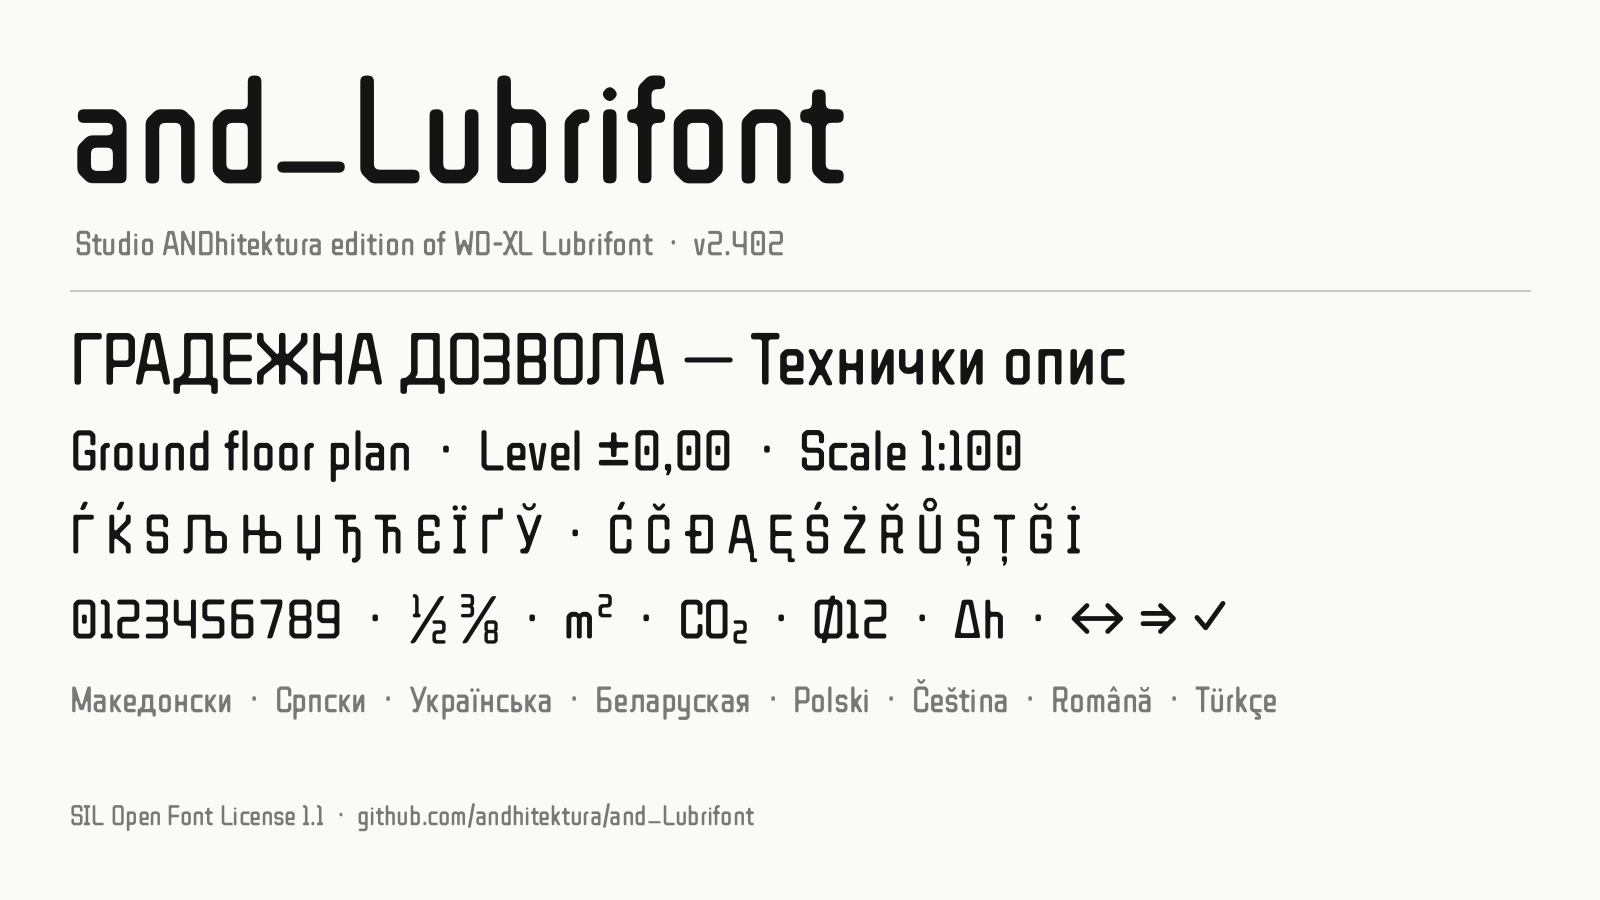
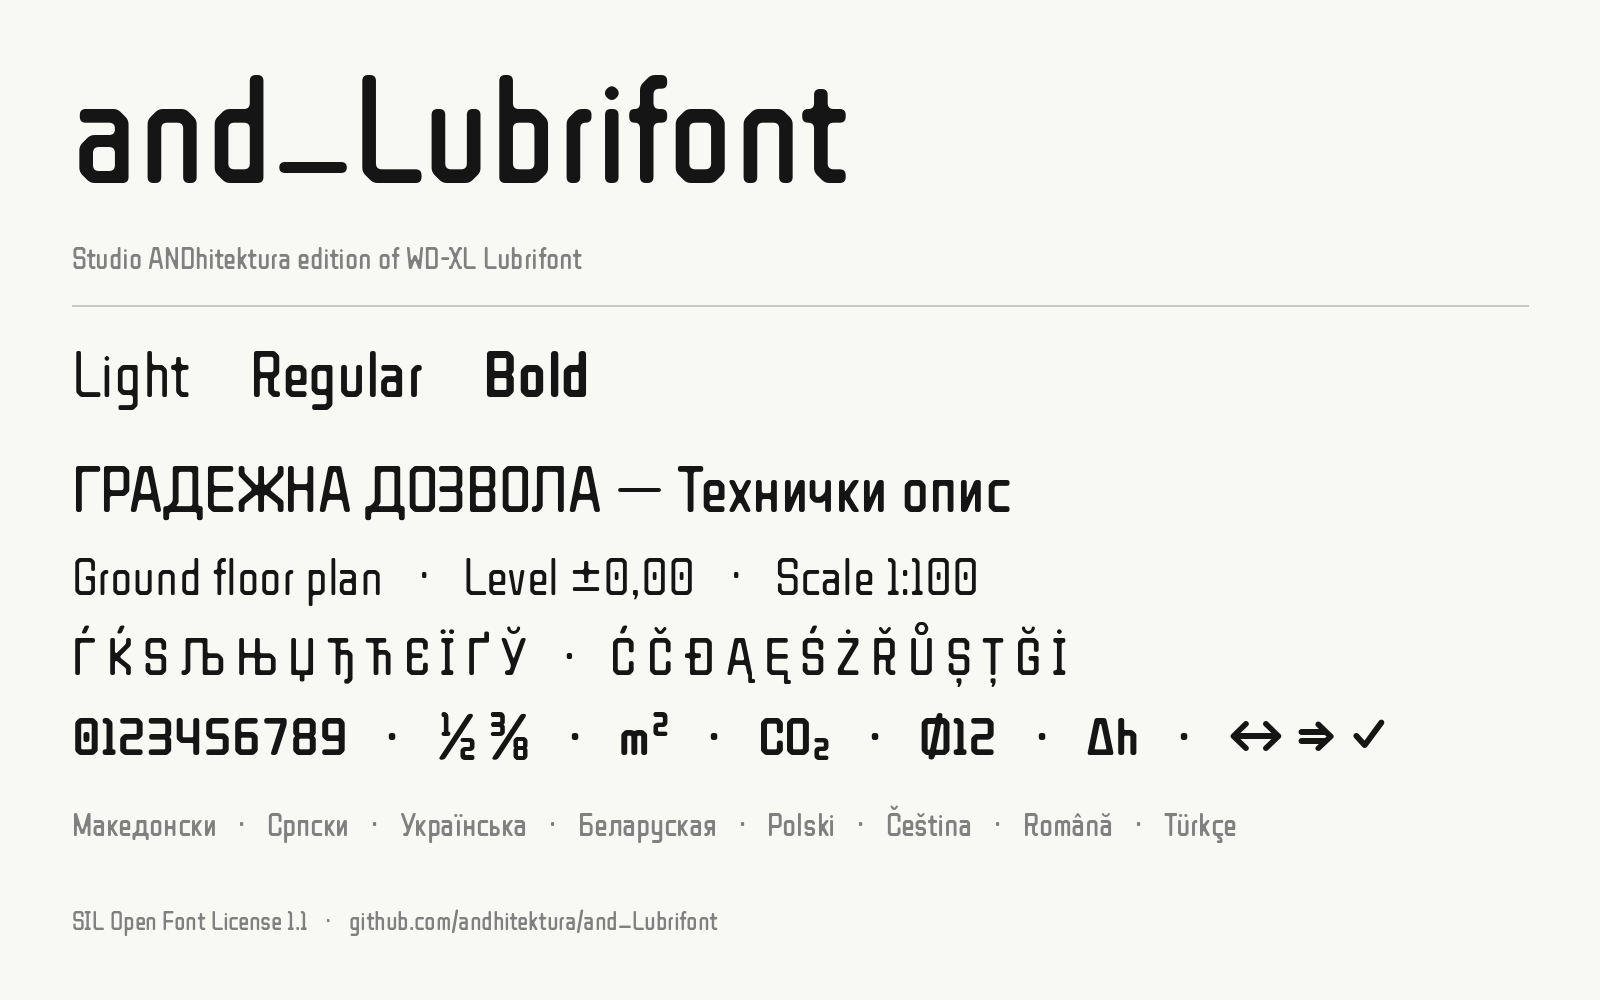
App-neutral documentation, new specimen, updated references
- README, FEATURES, UPDATES, TECHNICAL and script comments describe
  application support in general terms instead of naming applications.
- New README specimen (sources/scripts/make_specimen.py): shows the
  Light/Regular/Bold weights and no version number, so it no longer
  goes out of date (the old one said v2.402).
- README lists hinting, web fonts and the fontbakery check; FEATURES
  refers to v2.501; TO_DO.md gains the done and remaining roadmap
  items; DESCRIPTION.en_us.html describes this edition.

Claude-Session: https://claude.ai/code/session_018pCtkYHVwsveDFWZrVX9eK

diff --git a/documentation/DESCRIPTION.en_us.html b/documentation/DESCRIPTION.en_us.html
@@ -1,3 +1,3 @@
-<p>WD-XL Lubrifont is a Chinese display font that emphasize on a compat yet welcoming experience, expanded for daily Chinese typography with professional typesetting in mind.</p>
+<p>and_Lubrifont is Studio ANDhitektura's edition of WD-XL Lubrifont, a geometric display font with rounded-square forms and a full Chinese and Japanese character set. This edition extends it for technical and architectural documents in Macedonian and other European languages: Cyrillic and Central European letters, a dotted zero and diagonal seven for legibility, tabular figures, fractions, super- and subscripts, technical symbols, kerning, and a Latin / Cyrillic / Greek family in Light, Regular and Bold.</p>
 
-<p>To contribute to the project or raise an issue, please visit <a href="https://github.com/NightFurySL2001/WD-XL-font">the GitHub repository</a> or contact <a href="mailto:nfsl-fonts@outlook.my">NFSL2001</a>.</p>
+<p>Based on WD-XL Lubrifont by NightFurySL2001 and ZCOOL QingKe HuangYou. To contribute or raise an issue, please visit <a href="https://github.com/andhitektura/and_Lubrifont">the GitHub repository</a>.</p>

diff --git a/sources/scripts/make_specimen.py b/sources/scripts/make_specimen.py
@@ -1,0 +1,54 @@
+# Specimen image for the README: documentation/specimen.png (1600 x 1000),
+# set in the and_Lubrifont .ttf fonts with kerning (Pillow with libraqm).
+# It names no version number, so it does not go out of date with a release.
+#
+# usage: py make_specimen.py
+#
+# Requires: Pillow (with libraqm)
+
+import os
+from PIL import Image, ImageDraw, ImageFont
+
+HERE = os.path.dirname(os.path.abspath(__file__))
+FONTS = os.path.join(HERE, "..", "..", "fonts", "and_Lubrifont")
+OUT = os.path.join(HERE, "..", "..", "documentation", "specimen.png")
+
+BG, INK, GREY, RULE = "#f8f8f5", "#151515", "#808080", "#c8c8c4"
+X = 72
+
+
+def font(style, size):
+    return ImageFont.truetype(os.path.join(FONTS, f"andLubrifont-{style}.ttf"), size,
+                              layout_engine=ImageFont.Layout.RAQM)
+
+
+def main():
+    img = Image.new("RGB", (1600, 1000), BG)
+    d = ImageDraw.Draw(img)
+    d.text((X, 40), "and_Lubrifont", font=font("Regular", 150), fill=INK)
+    d.text((X, 240), "Studio ANDhitektura edition of WD-XL Lubrifont", font=font("Regular", 30), fill=GREY)
+    d.line((X, 305, 1528, 305), fill=RULE, width=2)
+    y = 335
+    x = X
+    for style in ("Light", "Regular", "Bold"):
+        f = font(style, 64)
+        d.text((x, y), style, font=f, fill=INK)
+        x += d.textlength(style, font=f) + 60
+    lines = [
+        ("Regular", 64, "ГРАДЕЖНА ДОЗВОЛА — Технички опис", 450),
+        ("Light", 52, "Ground floor plan  ·  Level ±0,00  ·  Scale 1:100", 545),
+        ("Regular", 52, "Ѓ Ќ Ѕ Љ Њ Џ Ђ Ћ Є Ї Ґ Ў  ·  Ć Č Đ Ą Ę Ś Ż Ř Ů Ș Ț Ğ İ", 625),
+        ("Bold", 52, "0123456789  ·  ½ ⅜  ·  m²  ·  CO₂  ·  ⌀12  ·  ∆h  ·  ↔ ⇒ ✓", 705),
+    ]
+    for style, size, text, ly in lines:
+        d.text((X, ly), text, font=font(style, size), fill=INK)
+    d.text((X, 805), "Македонски  ·  Српски  ·  Українська  ·  Беларуская  ·  Polski  ·  Čeština  ·  Română  ·  Türkçe",
+           font=font("Regular", 32), fill=GREY)
+    d.text((X, 905), "SIL Open Font License 1.1  ·  github.com/andhitektura/and_Lubrifont",
+           font=font("Regular", 26), fill=GREY)
+    img.save(OUT, optimize=True)
+    print(OUT)
+
+
+if __name__ == "__main__":
+    main()

diff --git a/sources/scripts/release_fixes.py b/sources/scripts/release_fixes.py
@@ -3,8 +3,7 @@
 #
 # - Line metrics: typo and hhea ascender/descender 945/-235, line gap 0, in
 #   every font, so the .otf and .ttf of a font set text with the same line
-#   spacing (1180 units, as the .ttf always had) on Windows, macOS and in
-#   Adobe applications; USE_TYPO_METRICS set so applications that honour it
+#   spacing (1180 units, as the .ttf always had) in every application; USE_TYPO_METRICS set so applications that honour it
 #   use these values.
 # - Windows clipping box: usWinAscent/usWinDescent at least the font's
 #   highest and lowest point (accented capitals Ѓ Ќ Ѐ Ѝ Ў Č Ř Š ... reach

diff --git a/sources/scripts/autohint.py b/sources/scripts/autohint.py
@@ -1,8 +1,7 @@
 # TrueType hinting for the and_Lubrifont .ttf fonts, with ttfautohint.
 #
 # Hinting snaps stems, x-height, cap height and baseline to whole pixels at
-# small sizes, so text stays sharp and even on screen: AutoCAD, Windows
-# applications and plan sheets viewed below about 20 px. Latin, Cyrillic and
+# small sizes, so text stays sharp and even on screen below about 20 px. Latin, Cyrillic and
 # Greek are hinted; CJK glyphs are left unhinted (ttfautohint has no CJK
 # support). -W (Windows compatibility) keeps glyphs inside usWinAscent and
 # usWinDescent, so GDI clips nothing.

diff --git a/sources/scripts/number_features.py b/sources/scripts/number_features.py
@@ -9,7 +9,7 @@
 #
 # and gives the math signs + − = < > ± × ÷ ¬ one common width, so they align in
 # tables. Proportional figures stay the default; the features are switched on
-# in the application (Rhino, Affinity, Adobe, Word, CSS font-feature-settings).
+# in the application (OpenType / typography settings, CSS font-feature-settings).
 #
 # The features are compiled with feaLib into a scratch copy of the font and
 # merged into the existing GSUB (existing lookups and features are untouched).

diff --git a/README.md b/README.md
@@ -13,9 +13,11 @@ Compared with the original WD-XL Lubrifont (v2.100):
 - **Languages:** Macedonian, Serbian, Croatian, Bosnian, Slovenian, Ukrainian, Belarusian, Polish, Czech, Slovak, Romanian and Turkish
 - **Legibility:** a zero with a centre dot (`0` vs `O`), and a 7 with a diagonal stem
 - **Spacing:** corrected and evened-out letter spacing, slightly more open overall, and kerning for Latin, Cyrillic and punctuation
-- **Accents:** combining stress accents (`е́ о́ и́`) sit correctly on Cyrillic letters, and accented capitals are no longer clipped in Windows applications
+- **Accents:** combining stress accents (`е́ о́ и́`) sit correctly on Cyrillic letters, and accented capitals are no longer clipped at the top
 - **Numbers and symbols:** tabular figures, fractions, superscripts and subscripts, `⌀ ∅ ∆` and arrows, with all math signs at one width
 - **A light Latin / Cyrillic / Greek edition:** about 200 KB instead of 6–12 MB, in three weights: **Light**, Regular and **Bold**
+- **Screen and web:** hinted `.ttf` for sharp text at small sizes, and WOFF2 web fonts
+- **Quality:** every change is checked automatically with [fontbakery](https://github.com/fonttools/fontbakery)
 
 See [Updates](./UPDATES.md) for the full list.
 
@@ -31,9 +33,9 @@ Download the latest version from the **[Releases page](https://github.com/andhit
 | `andLubrifont-Bold.ttf` | and_Lubrifont, style Bold (the **B** button) |
 | `andLubrifont-Light.ttf` | **and_Lubrifont Light** |
 
-Install all three. The **Bold** is linked to the Regular: when you press **B** in Word, Rhino or Affinity, the application uses the real Bold instead of thickening the letters itself, which crowds them together. The **Light** appears as its own entry, because Windows menus only group Regular, Bold and their italics under one name.
+Install all three. The **Bold** is linked to the Regular: when you switch text to bold, the application uses the real Bold instead of thickening the letters itself, which crowds them together. The **Light** appears as its own entry, because Windows menus only group Regular, Bold and their italics under one name.
 
-The `otf` subfolder has the same three fonts in OpenType-CFF format, for Adobe and Affinity users who prefer it. They look identical; install either the `.ttf` or the `.otf` files, not both. AutoCAD needs the `.ttf`. The `woff2` folder is for websites (see [Web fonts](#web-fonts)), not for installing.
+The `otf` subfolder has the same three fonts in OpenType-CFF format. They look identical; install either the `.ttf` or the `.otf` files, not both. The `.ttf` is the safe choice: it works everywhere, including technical applications that accept only TrueType fonts, and it is hinted for sharp text on screen. The `woff2` folder is for websites (see [Web fonts](#web-fonts)), not for installing.
 
 **`and_Lubrifont-CJK`: only if you also write Chinese or Japanese.** The same Latin, Cyrillic and Greek letters, plus about 18,000 Chinese and Japanese characters (6–12 MB per file, Regular weight only). Install the one version that matches your text:
 
@@ -41,15 +43,15 @@ The `otf` subfolder has the same three fonts in OpenType-CFF format, for Adobe a
 | --- | --- | --- |
 | `andLubrifontSC-Regular.ttf` | and_Lubrifont SC | Simplified Chinese (mainland China) |
 | `andLubrifontTC-Regular.ttf` | and_Lubrifont TC | Traditional Chinese (Taiwan, Hong Kong) |
-| `andLubrifontJPS-Regular.ttf` | and_Lubrifont JP S | Japanese, JIS90 forms (like Adobe Std) |
-| `andLubrifontJPN-Regular.ttf` | and_Lubrifont JP N | Japanese, JIS2004 forms (like Adobe StdN) |
+| `andLubrifontJPS-Regular.ttf` | and_Lubrifont JP S | Japanese, JIS90 character forms |
+| `andLubrifontJPN-Regular.ttf` | and_Lubrifont JP N | Japanese, JIS2004 character forms |
 | `andLubrifont.ttc` | all four of the above | all four in one smaller file |
 
-The `otf` subfolder of the download has the same four fonts in OpenType-CFF format (also in [`fonts/and_Lubrifont-CJK/otf`](./fonts/and_Lubrifont-CJK/otf)); the `.ttc` contains those four in one file and installs directly on Windows, macOS and in Adobe applications. Install only one of the `.ttf`, `.otf` or `.ttc` versions.
+The `otf` subfolder of the download has the same four fonts in OpenType-CFF format (also in [`fonts/and_Lubrifont-CJK/otf`](./fonts/and_Lubrifont-CJK/otf)); the `.ttc` contains those four in one file and installs directly on Windows and macOS. Install only one of the `.ttf`, `.otf` or `.ttc` versions.
 
 The regional codes (SC, TC, JP) exist because Chinese and Japanese draw some of the same characters differently.
 
-**Versions.** The version number (e.g. 2.500) only tells you which release you have; there is always just one current version. Install the newest one and uninstall the older one first.
+**Versions.** The version number (e.g. 2.501) only tells you which release you have; there is always just one current version. Install the newest one and uninstall the older one first.
 
 ### Installing on Windows
 
@@ -57,15 +59,13 @@ The regional codes (SC, TC, JP) exist because Chinese and Japanese draw some of 
 2. Right-click the font file and choose **Install for all users**.
 3. Restart the application.
 
-Drawings that used "WD-XL Lubrifont SC" need the font reassigned to "and_Lubrifont" (or "and_Lubrifont SC").
+Documents that used "WD-XL Lubrifont SC" need the font reassigned to "and_Lubrifont" (or "and_Lubrifont SC").
 
 ## Using the font in your software
 
-| Feature | Rhino, Affinity, Adobe, browsers | Microsoft Word | AutoCAD |
-| --- | --- | --- | --- |
-| Letter spacing, accents | ✓ | ✓ | ✓ |
-| Kerning | automatic | turn on: Font → Advanced → *Kerning for fonts* | not supported |
-| Tabular figures, fractions, super/subscripts | OpenType / Typography panel | Font → Advanced | use `½ ⅜ ² ₂` directly |
+The letters, spacing and accents work in every application. **Kerning** (the adjusted spacing of pairs such as `AV`, `Ту`) is applied automatically by most applications and browsers; a few word processors apply it only after it is switched on in the font or character settings, and some technical text engines do not apply it at all.
+
+**Tabular figures, fractions, superscripts and subscripts** are OpenType features: switch them on in the application's OpenType or typography settings, or in CSS with `font-feature-settings`. Where an application has no such settings, type the ready-made characters directly (`½ ⅜ ² ₂`).
 
 See [OpenType features](./FEATURES.md) for every feature and how to switch it on.
 

diff --git a/FEATURES.md b/FEATURES.md
@@ -5,7 +5,7 @@
 and_Lubrifont has set up multiple OpenType features, which are listed as follows.
 
 > [!NOTE] 
-> The version of font for this document is v2.500 (20261024).
+> The version of font for this document is v2.501 (20261024).
 
 ## `vert` / `vrt2` — Vertical Alternates
 
@@ -31,7 +31,7 @@ This feature is turned on automatically; users do not need to set anything up.
 
 Since v2.300, Latin and Cyrillic letters and the common punctuation are kerned, so pairs such as `Та`, `Гл`, `ГА`, `LT`, `AV`, `Yo` and `P.` close up. Kerning applies within each script (Latin with Latin, Cyrillic with Cyrillic) and with punctuation; digits are not kerned, so numbers stay aligned in tables and drawings.
 
-This feature is on by default in most software (Affinity, Adobe apps, Rhino, browsers). In Microsoft Word it must be turned on: select the text, open **Font → Advanced** and tick **Kerning for fonts**. AutoCAD's text engine does not apply kerning; there the even letter spacing of the font itself applies.
+This feature is on by default in most software and in browsers. Some word processors apply it only after it is switched on in the font or character settings, and some technical text engines do not apply kerning at all; there the even letter spacing of the font itself applies.
 
 ## `tnum` — Tabular Figures
 
@@ -53,7 +53,7 @@ Typing `3/8`, `5/16` or `12/25` with `frac` on gives proper fractions, laid out 
 * `subs` / `sinf`: subscript digits (`CO2` → `CO₂`)
 * `numr` / `dnom`: the numerator and denominator digits used by `frac`
 
-These features are switched on in the application: in Affinity and Adobe software in the OpenType or Typography panel, in Word under Font → Advanced, in CSS with `font-feature-settings` (e.g. `"tnum"`). AutoCAD does not support OpenType features; there, use the precomposed characters `½ ⅓ ¼ ⅛ ² ³ ₂` directly.
+These features are switched on in the application's OpenType or typography settings, or in CSS with `font-feature-settings` (e.g. `"tnum"`). Where an application has no such settings, use the precomposed characters `½ ⅓ ¼ ⅛ ² ³ ₂` directly.
 
 ## `mark` / `mkmk` — Mark Positioning
 
@@ -169,17 +169,17 @@ Users need to find “Historical and discretionary ligatures” in their softwar
 
 This font includes a few technical tests, including Simplified/Traditional form exchange. This feature lets users convert Simplified characters to Traditional characters (`trad`) or Traditional characters to Simplified characters (`smpl`). One-to-many characters are not swapped automatically; users need to change those characters manually. **Warning: the feature modifies the information stored in documents; please save the original file in a safe location before testing.** [(Source)](https://docs.microsoft.com/en-us/typography/opentype/spec/features_pt)
 
-Most software does not support this feature; only browsers can set it through CSS. (Note: Adobe InDesign can turn on `trad` only.)
+Most software does not support this feature; browsers can set it through CSS.
 
 ## `locl` — Localized Forms
 
 This font includes a feature for testing: localized forms based on region. The SC, TC and JP versions are merged into one font file, which allows character glyphs to be switched from one region's form to another's. This feature is mainly used to change glyphs that differ between SC, TC and JP, such as the top of “骨”.
 
-Currently some software supports this feature: if the software can tag the language of the text, the feature is likely available (such as in Word and InDesign) and is applied automatically when changing languages. In browsers, adding the language attribute `lang="zh-cn"`, `lang="zh-tw"` or `lang="ja"` to the elements turns on this feature.
+Currently some software supports this feature: if the software can tag the language of the text, the feature is likely available and is applied automatically when changing languages. In browsers, adding the language attribute `lang="zh-cn"`, `lang="zh-tw"` or `lang="ja"` to the elements turns on this feature.
 
 ## `aalt` — Access All Alternates
 
-All the features above (except `liga` and `dlig`) can be accessed through `aalt`, so the character choices from `smpl`/`trad` can still be used in Adobe software through this feature.
+All the features above (except `liga` and `dlig`) can be accessed through `aalt`, so the character choices from `smpl`/`trad` can still be used in software that offers a glyph or alternates panel.
 
 ## Extra: Variation Selector
 

diff --git a/UPDATES.md b/UPDATES.md
@@ -6,13 +6,13 @@
 
 - Reorganised the `fonts` folder into two families: `fonts/and_Lubrifont/` (Light, Regular, Bold; `.ttf`, with `.otf` in `otf/`) and `fonts/and_Lubrifont-CJK/` (SC, TC, JP S, JP N and the `.ttc`). The patch scripts moved to `sources/scripts/`. The fonts themselves are unchanged.
 
-- The `.otf` fonts now have the same line spacing as the `.ttf` (ascender 945, descender 235, no line gap). Until now the `.otf` set lines tighter (1000 units on macOS, 1150 in Windows and Adobe applications, against 1180 for the `.ttf`), so the same text spaced differently depending on which format was installed. Glyph shapes and widths are unchanged
+- The `.otf` fonts now have the same line spacing as the `.ttf` (ascender 945, descender 235, no line gap). Until now the `.otf` set lines tighter (1000 or 1150 units depending on the application, against 1180 for the `.ttf`), so the same text spaced differently depending on which format was installed. Glyph shapes and widths are unchanged
 
 - Windows no longer clips the tallest and deepest glyphs: the Windows ascent/descent now covers every glyph of the font (Light, Regular and Bold share the same values)
 
 - Light and Bold no longer carry the obsolete Macintosh name records, so all three weights have the same name table layout
 
-- The `.ttf` fonts of and_Lubrifont (Light, Regular, Bold) are now hinted (ttfautohint): at small sizes on screen (AutoCAD, Windows, drawings viewed zoomed out) stems, x-height, cap height and baseline snap to whole pixels, so text is sharper and more even. Printing and the `.otf` fonts are not affected
+- The `.ttf` fonts of and_Lubrifont (Light, Regular, Bold) are now hinted (ttfautohint): at small sizes on screen stems, x-height, cap height and baseline snap to whole pixels, so text is sharper and more even. Printing and the `.otf` fonts are not affected
 
 - Web fonts: WOFF2 versions of Light, Regular and Bold in `fonts/and_Lubrifont/woff2/`, with a CSS example in the README
 
@@ -208,7 +208,7 @@
 
 - Fixed glyphs missed in earlier passes (chamfered corners)
 
-- Removed `name` table entries 16/17 (SC/TC) so that some Adobe software can load the font
+- Removed `name` table entries 16/17 (SC/TC) so that some design software can load the font
 
 - Added stylistic set names
 

diff --git a/documentation/TECHNICAL.md b/documentation/TECHNICAL.md
@@ -194,7 +194,7 @@ The settings used in this step:
 
 5. `sfntedit -d DSIG .\andLubrifontSC-Regular.otf`
 
-This step removes the digital signature (`DSIG`) from the font. Word 2016 and later do not require a digital signature to use OTF fonts, and Google Fonts advises against adding one (even an empty one), so the signature is deleted.
+This step removes the digital signature (`DSIG`) from the font. Current operating systems and applications do not require a digital signature to use OTF fonts, and Google Fonts advises against adding one (even an empty one), so the signature is deleted.
 
 ### 2.100
 
@@ -257,6 +257,7 @@ Run them in this order (requires `fonttools` and `skia-pathops`):
 16. `autohint.py` — TrueType hinting of the three `.ttf` with ttfautohint (Latin, Cyrillic and Greek; Windows compatibility mode, so glyphs stay inside the Windows ascent/descent). Existing hinting is removed first, so it can be re-run; `make_weights.py` removes the Regular's hinting from the Light and Bold it builds. Run it last: `py autohint.py ../../fonts/and_Lubrifont/*.ttf`. Requires `ttfautohint-py`.
 17. `make_woff2.py` — WOFF2 web fonts of the three hinted `.ttf` in `fonts/and_Lubrifont/woff2/`.
 18. `set_version.py` — sets the version (head, name IDs 3 and 5, CFF) before a release: `py set_version.py 2.501 <fonts>`; then rebuild the `.ttc` and run `make_woff2.py`.
+19. `make_specimen.py` — draws `documentation/specimen.png` (the README image) from the `.ttf` fonts; it shows no version number, so it only needs redrawing when the design changes.
 
 ```
 cd sources/scripts

diff --git a/TO_DO.md b/TO_DO.md
@@ -6,3 +6,9 @@
 - [/] Test CID-keyed font technology
 - [/] Make a basic JP version
 - [x] Add the Polish, Czech, Romanian and Turkish letters (`ĄąĘęĎďŤťŘřĽľĹĺŚśŹźŻżŞşȘșȚțĞğİĖė` …)
+- [x] Hinting for the `.ttf` (v2.501)
+- [x] WOFF2 web fonts (v2.501)
+- [x] Automatic quality check with fontbakery on GitHub (v2.501)
+- [ ] Editable design source (UFO) and a variable font with a weight axis
+- [ ] Italic
+- [ ] Bulgarian letter forms (`locl`)
